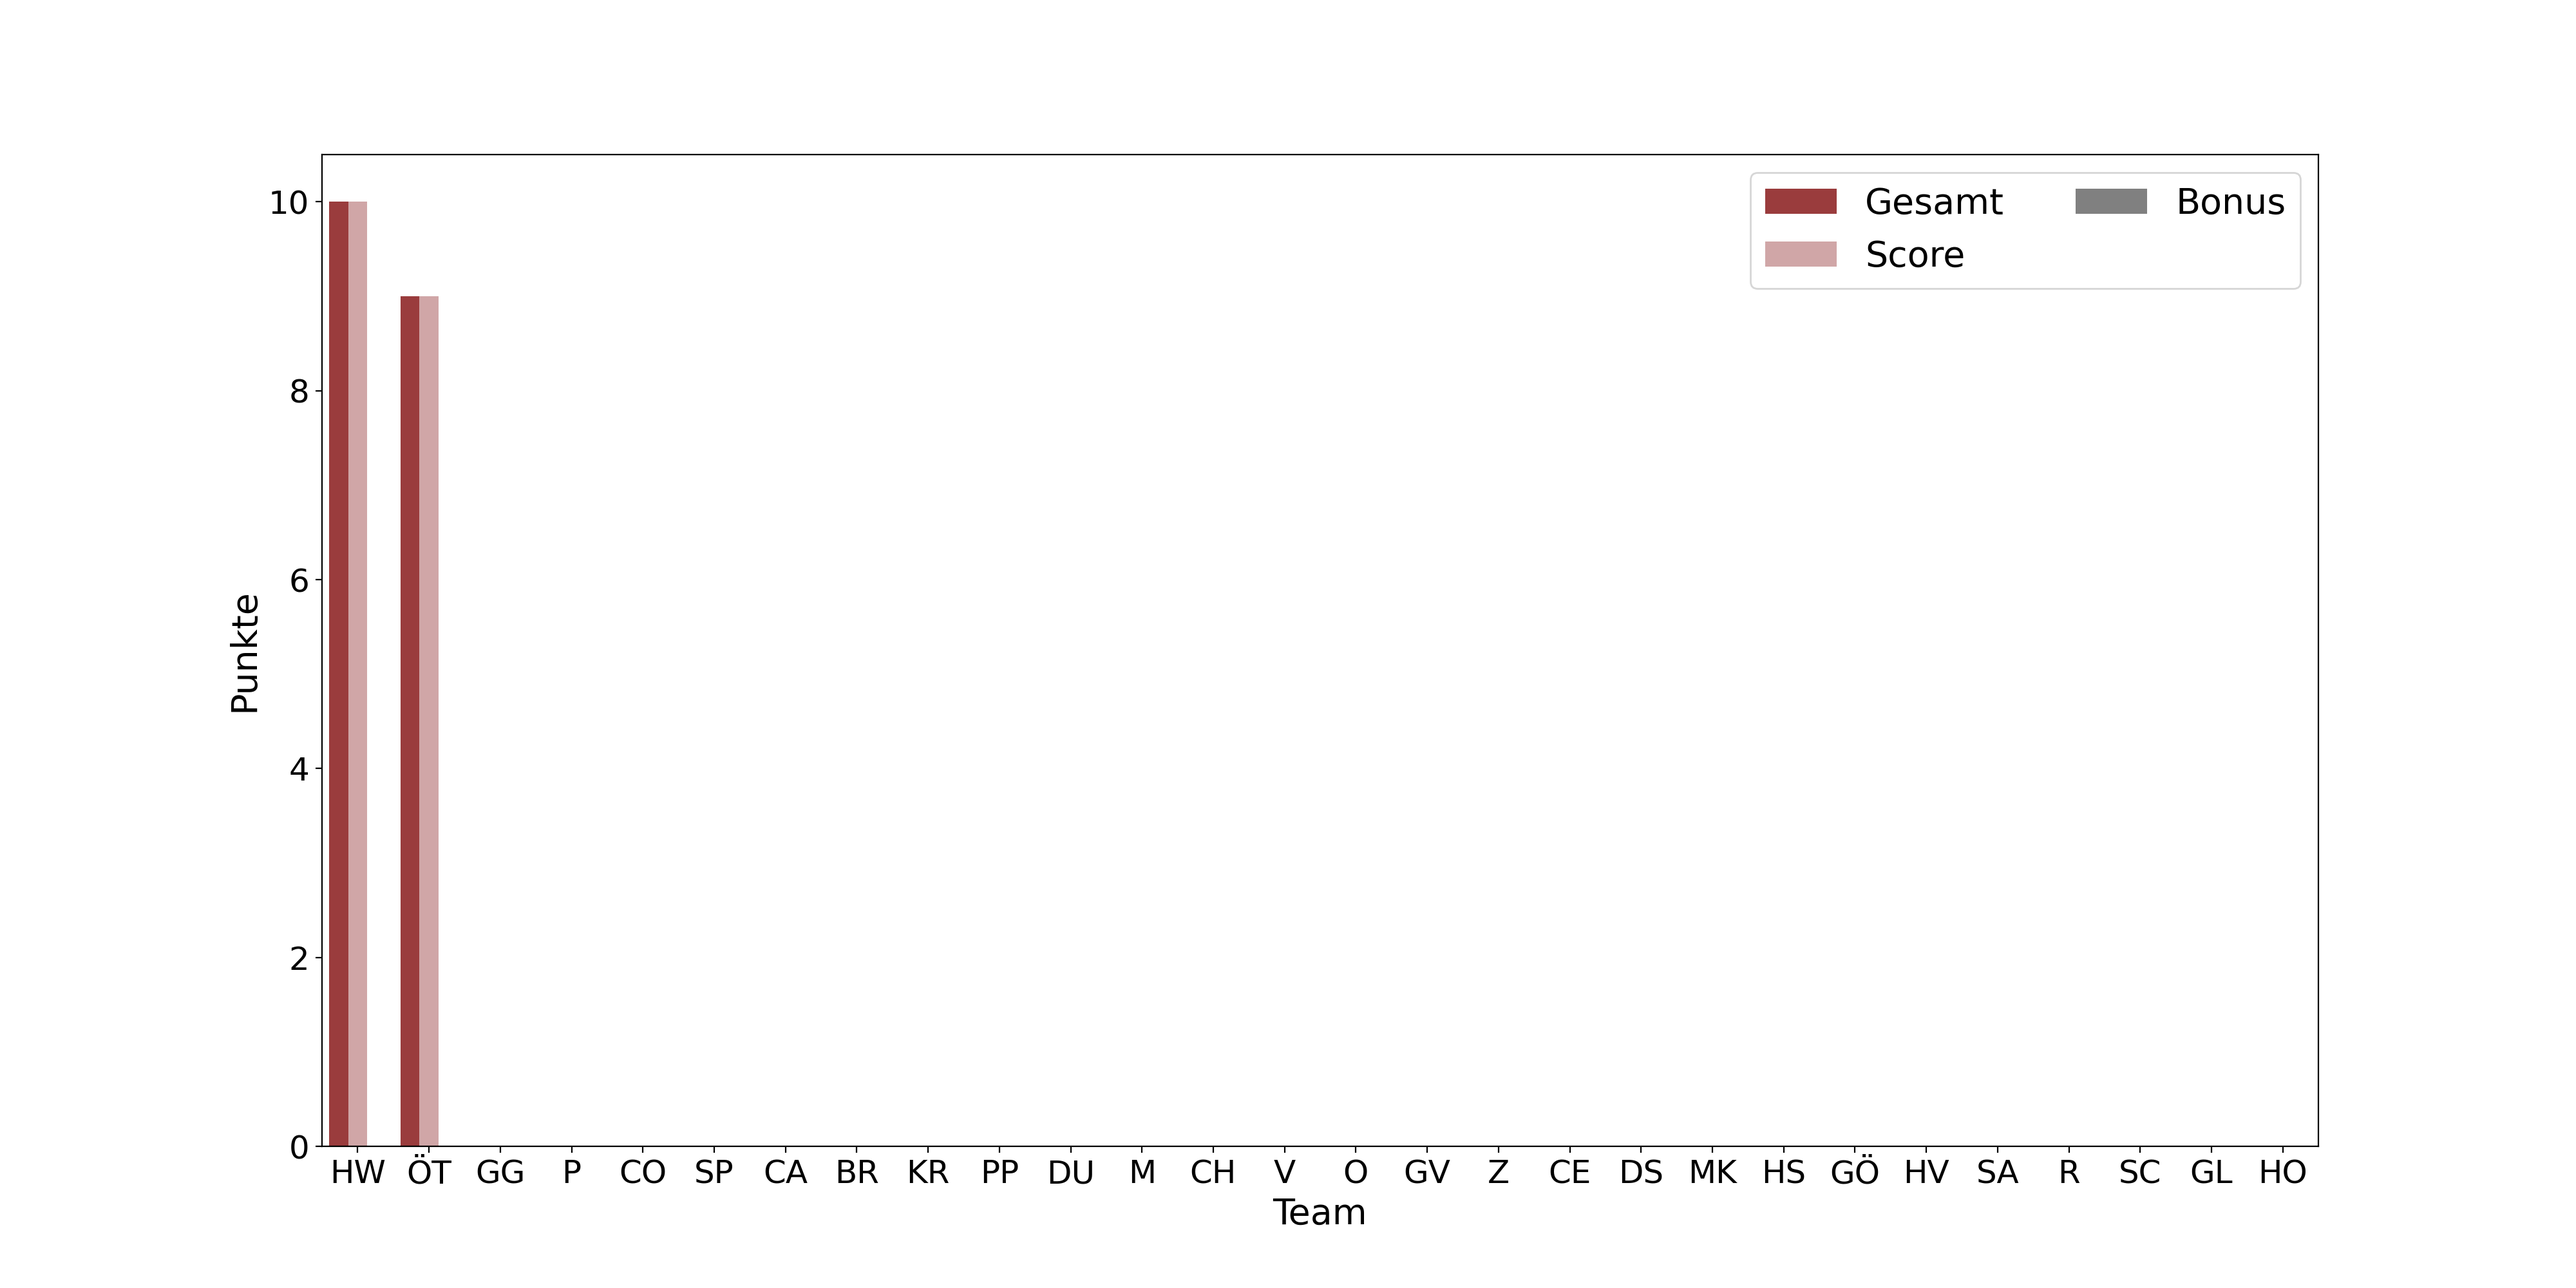
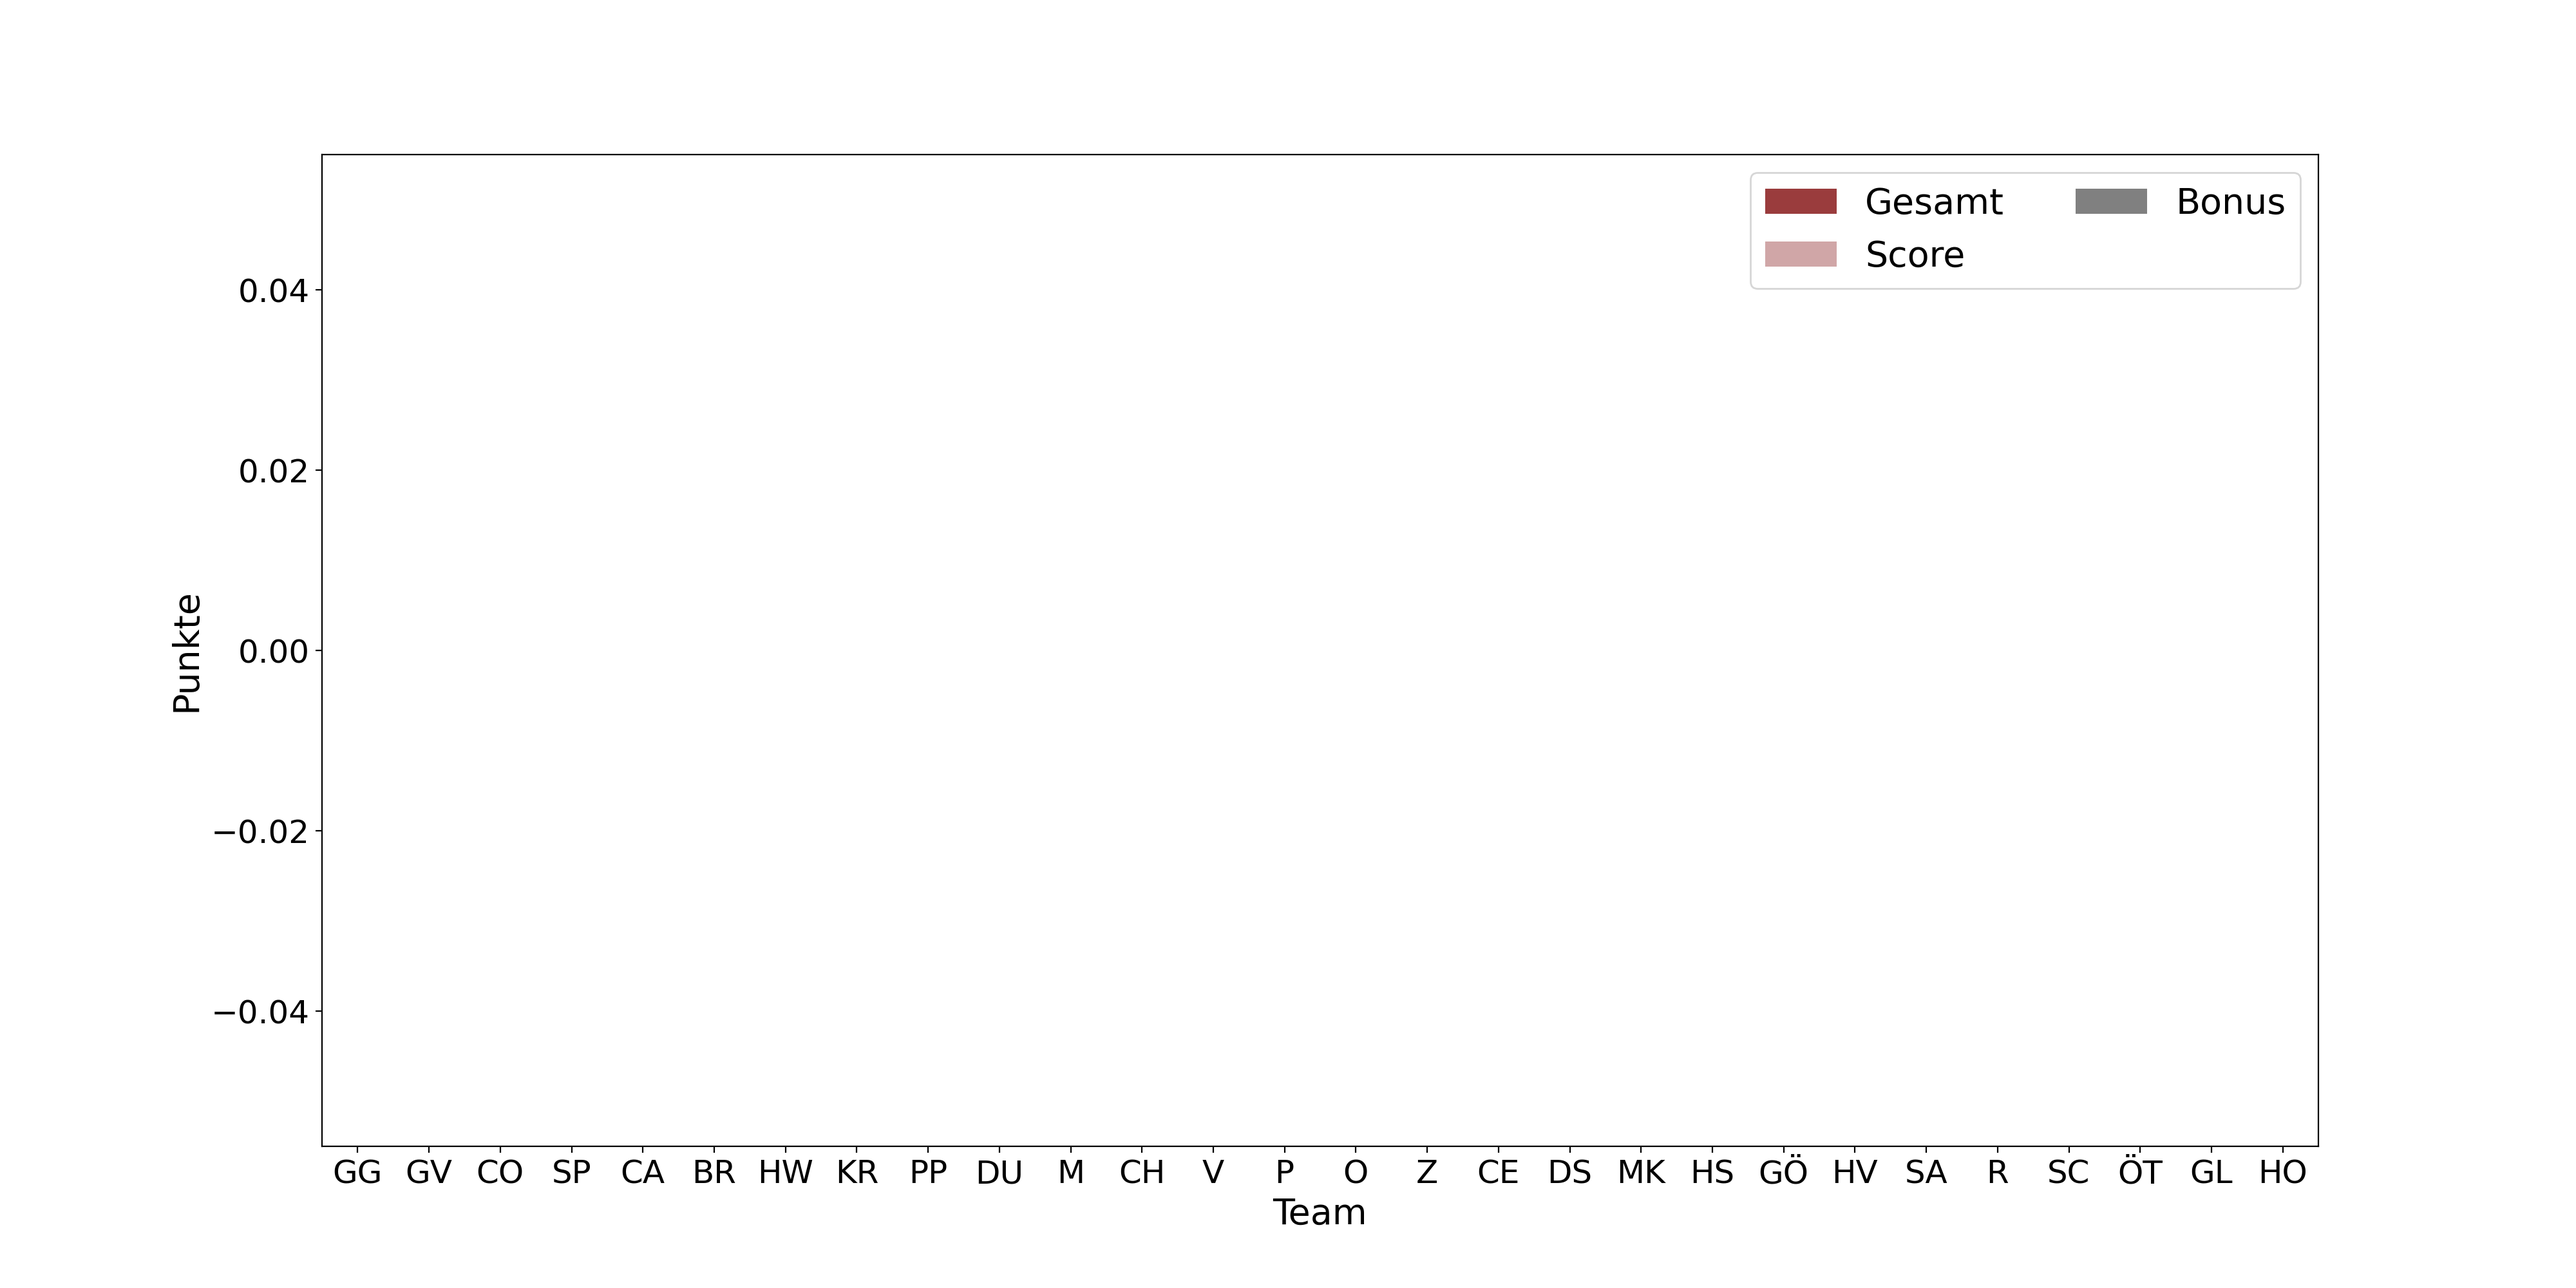
update

Changed region(s): [[0.0625, 0.155, 0.5, 0.93], [0.5312, 0.899, 0.8438, 0.93]]

diff --git a/css/style_teams.css b/css/style_teams.css
@@ -51,7 +51,7 @@
             background-color: #9bd0b7
         }
         .Z {
-            order: 16
+            order: 15
         }
         .Z .team__all-points::after{
             content: "0"
@@ -72,7 +72,7 @@
             background-color: #c23a22
         }
         .M {
-            order: 11
+            order: 10
         }
         .M .team__all-points::after{
             content: "0 "
@@ -92,7 +92,7 @@
             background-color: #dab894
         }
         .DS {
-            order: 18
+            order: 17
         }
         .DS .team__all-points::after{
             content: "0"
@@ -112,7 +112,7 @@
             background-color: #d6eadf
         }
         .DU {
-            order: 10
+            order: 9
         }
         .DU .team__all-points::after{
             content: "0"
@@ -121,7 +121,7 @@
 
 
         .OT .team__score::after {
-            content: "9/120"
+            content: "0/120"
         }
         .OT .team__stations::after {
             content: "1/12"
@@ -133,10 +133,10 @@
             background-color: #957DAD
         }
         .OT {
-            order: 1
+            order: 25
         }
         .OT .team__all-points::after{
-            content: " 9"
+            content: " 0"
         }
 
 
@@ -154,7 +154,7 @@
             background-color: #E0BBE4
         }
         .GG {
-            order: 2
+            order: 0
         }
         .GG .team__all-points::after{
              content: "0"
@@ -174,7 +174,7 @@
             background-color: #d291bc
         }
         .CH {
-            order: 12
+            order: 11
         }
         .CH .team__all-points::after{
             content: "0"
@@ -194,7 +194,7 @@
             background-color: #c2d5a8
         }
         .GO {
-            order: 21
+            order: 20
         }
         .GO .team__all-points::after{
             content: "0"
@@ -214,7 +214,7 @@
             background-color: #ffdfdc
         }
         .GV {
-            order: 15
+            order: 1
         }
         .GV .team__all-points::after{
             content: "0"
@@ -234,7 +234,7 @@
             background-color: #9d8189
         }
         .SC {
-            order: 25
+            order: 24
         }
         .SC .team__all-points::after{
             content: "0"
@@ -254,7 +254,7 @@
             background-color: #cccccc
         }
         .V {
-            order: 13
+            order: 12
         }
         .V .team__all-points::after{
             content: "0"
@@ -274,7 +274,7 @@
             background-color: #9cadce
         }
         .MK {
-            order: 19
+            order: 18
         }
         .MK .team__all-points::after{
             content: "0"
@@ -294,7 +294,7 @@
             background-color: #a2d2ff
         }
         .SA {
-            order: 23
+            order: 22
         }
         .SA .team__all-points::after{
             content: "0"
@@ -314,7 +314,7 @@
             background-color: #5d5b6a
         }
         .P {
-            order: 3
+            order: 13
         }
         .P .team__all-points::after{
             content: "0"
@@ -334,7 +334,7 @@
             background-color: #ffafcc
         }
         .R {
-            order: 24
+            order: 23
         }
         .R .team__all-points::after{
             content: "0"
@@ -355,7 +355,7 @@
             background-color: #efe9ae
         }
         .HS {
-            order: 20
+            order: 19
         }
         .HS .team__all-points::after{
             content: "0"
@@ -376,7 +376,7 @@
             background-color: #ff928b
         }
         .CE {
-            order: 17
+            order: 16
         }
         .CE .team__all-points::after{
             content: "0"
@@ -396,7 +396,7 @@
             background-color: #7ec4cf
         }
         .PP {
-            order: 9
+            order: 8
         }
         .PP .team__all-points::after{
             content: "0"
@@ -404,7 +404,7 @@
 
         
         .HW .team__score::after {
-            content: "10/120"
+            content: "0/120"
         }
         .HW .team__stations::after {
             content: "1/12"
@@ -416,10 +416,10 @@
             background-color: #758184
         }
         .HW {
-            order: 0
+            order: 6
         }
         .HW .team__all-points::after{
-            content: "10"
+            content: "0"
         }
 
 
@@ -436,7 +436,7 @@
             background-color: #ff8fab
         }
         .KR {
-            order: 8
+            order: 7
         }
         .KR .team__all-points::after{
             content: "0"
@@ -456,7 +456,7 @@
             background-color: #ff6663
         }
         .CO {
-            order: 4
+            order: 2
         }
         .CO .team__all-points::after{
             content: "0"
@@ -476,7 +476,7 @@
             background-color: #b8e0d2
         }
         .HV {
-            order: 22
+            order: 21
         }
         .HV .team__all-points::after{
             content: "0"
@@ -496,7 +496,7 @@
             background-color: #e8d1c5
         }
         .BR {
-            order: 7
+            order: 5
         }
         .BR .team__all-points::after{
             content: "0"
@@ -516,7 +516,7 @@
             background-color: #ffc8dd
         }
         .CA {
-            order: 6
+            order: 4
         }
         .CA .team__all-points::after{
             content: "0"
@@ -535,7 +535,7 @@
             background-color: #f6bc66
         }
         .SP {
-            order: 5
+            order: 3
         }
         .SP .team__all-points::after{
             content: "0"

diff --git a/css/style.css b/css/style.css
@@ -507,7 +507,7 @@ footer p{
     }
 
     .hero{
-        height: 700px;
+        height: 1000px;
         background-position: 50% 40%;
     }
 
